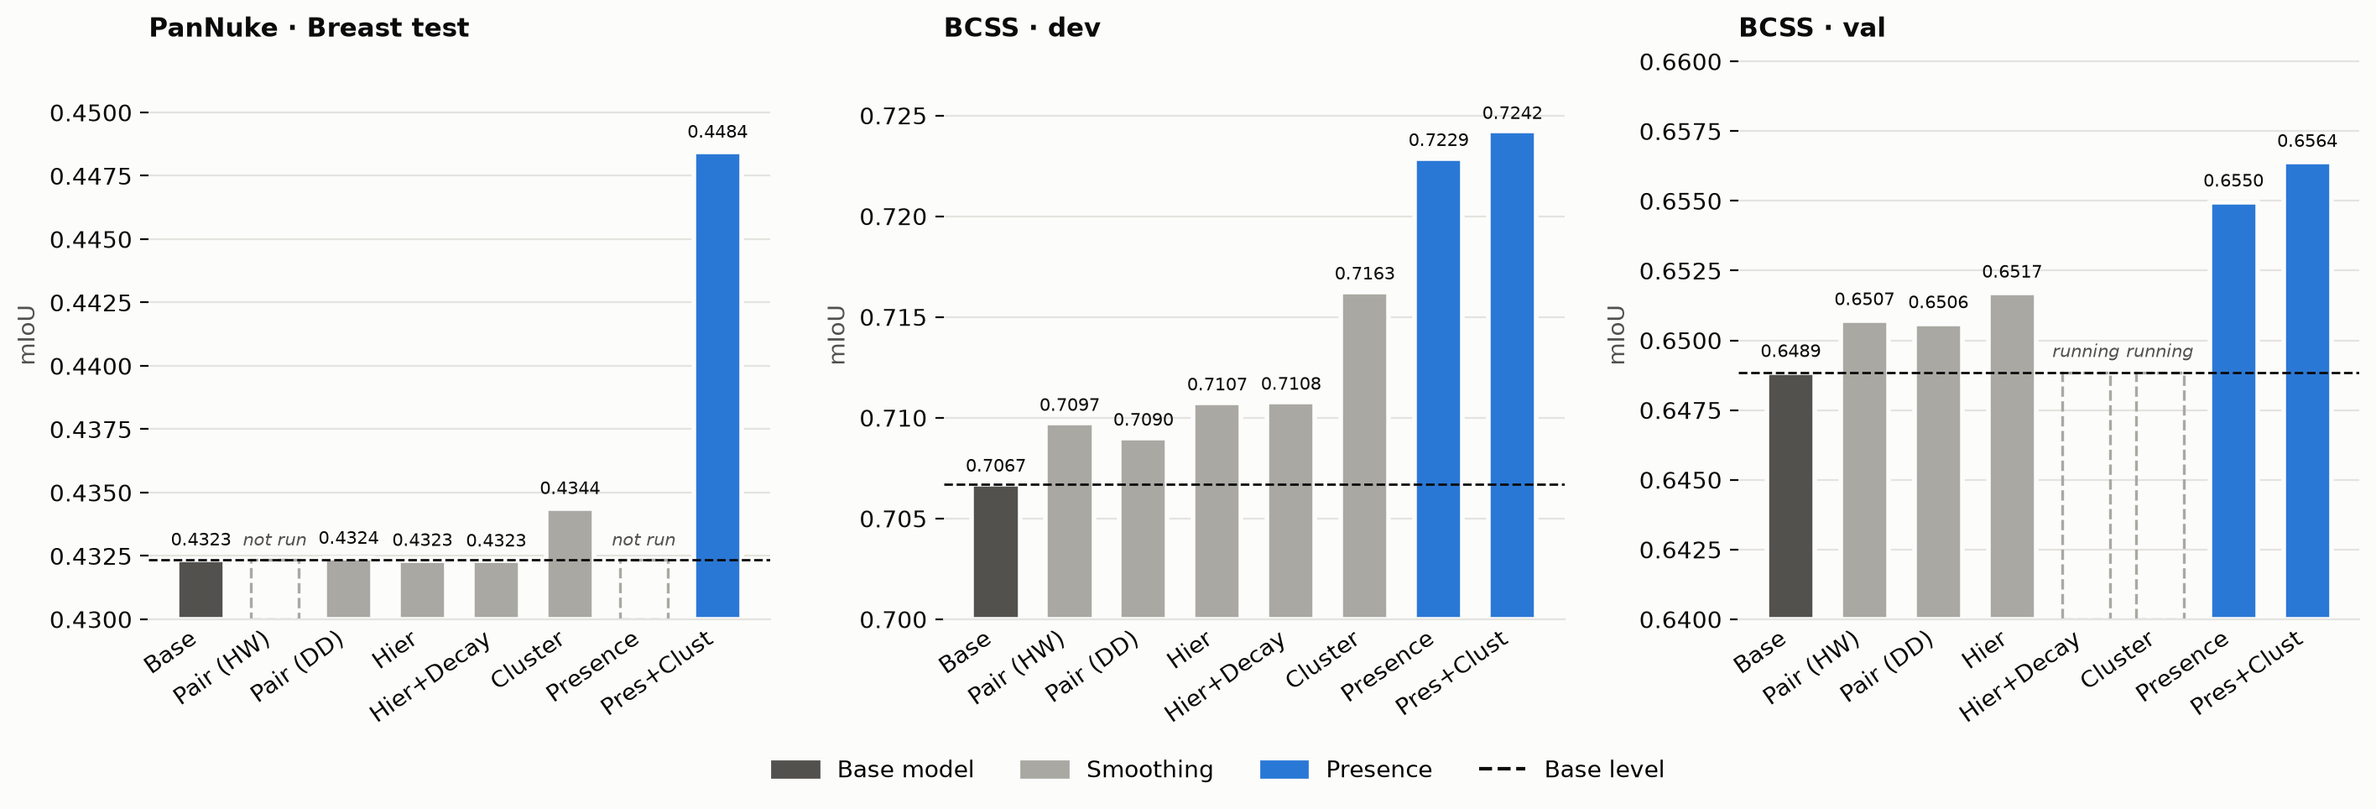
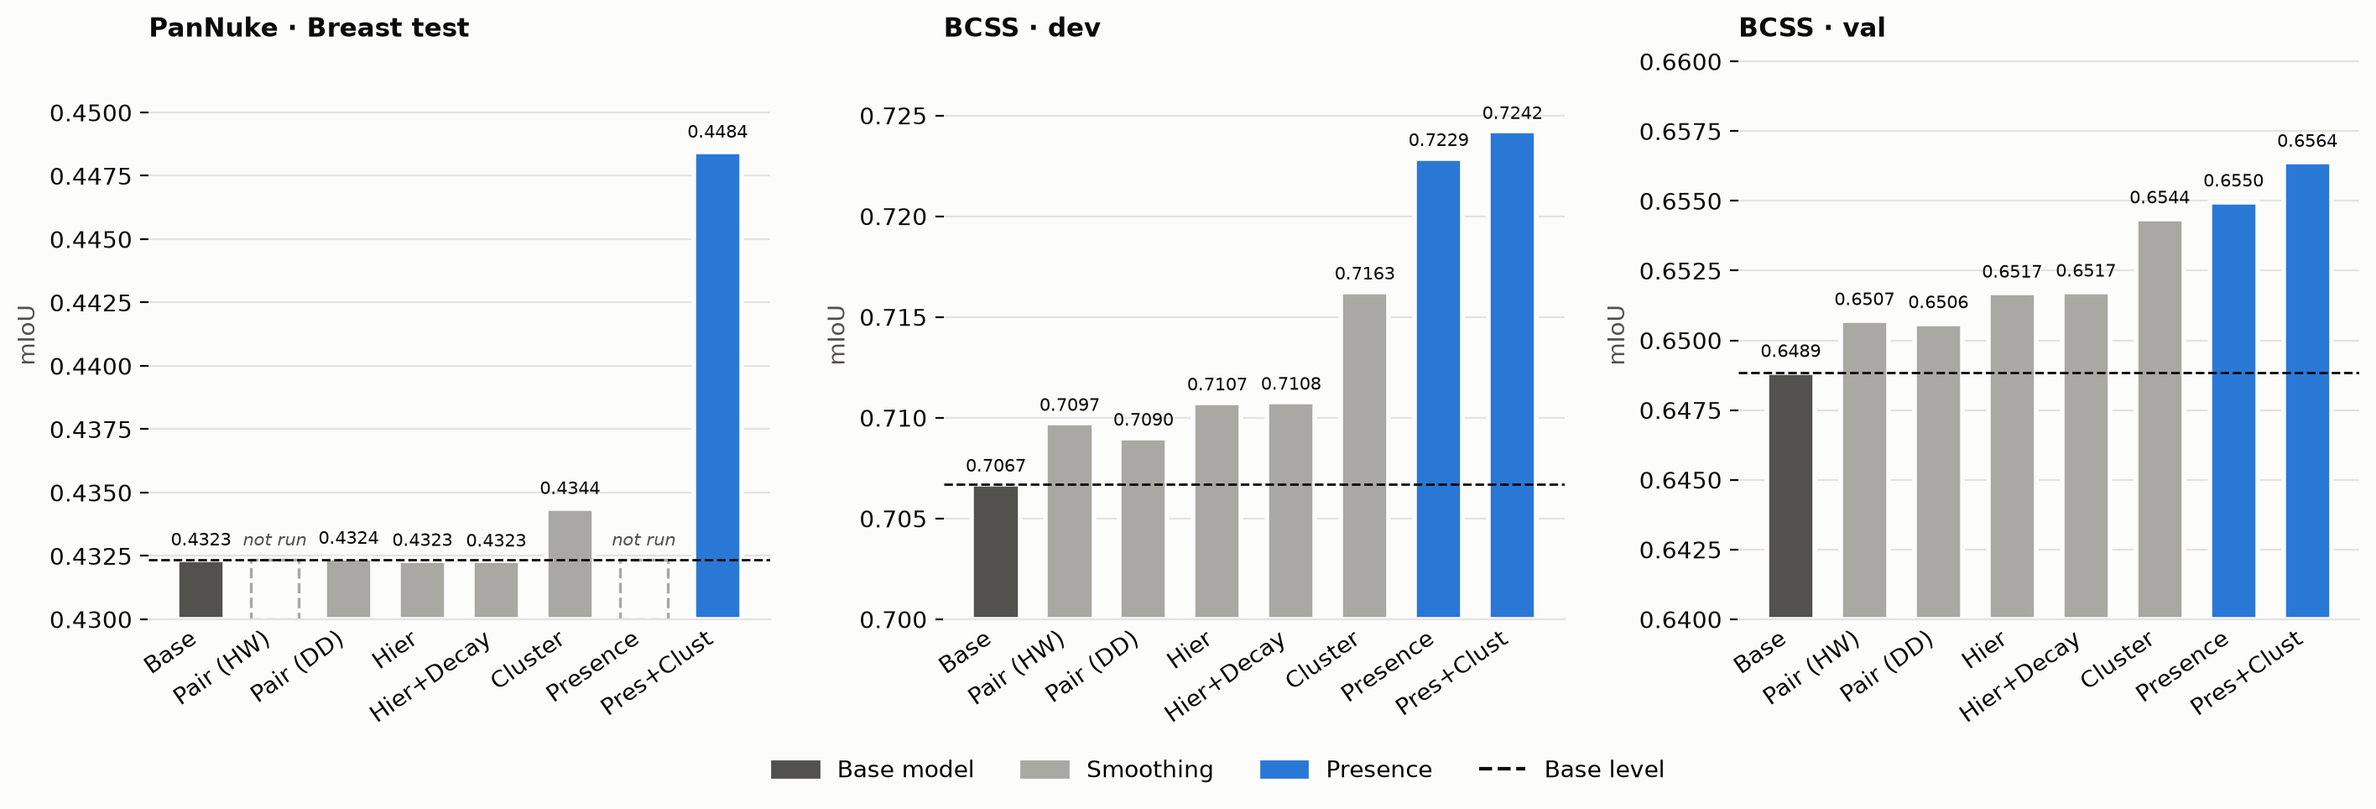
Deliverable 7: Preliminary / Further experiments with PanNuke and BCSS subsections; BCSS sweeps, presence+cluster, U-Net training; val decay and cluster results
Claude-Session: https://claude.ai/code/session_01CTh5Qud5ucWXzk6pK8w2Lo

Changed region(s): [[0.8701, 0.2178, 0.9322, 0.778]]

diff --git a/docs/deliverable7/index.html b/docs/deliverable7/index.html
@@ -14,9 +14,10 @@
   h1 { font-size: 34px; margin: 0 0 6px; letter-spacing: -0.01em; }
   .sub { color: var(--muted); margin: 0; }
   h2 { font-size: 22px; margin: 48px 0 12px; padding-top: 8px; }
-  h3 { font-size: 18px; margin: 32px 0 8px; }
+  h3 { font-size: 20px; margin: 36px 0 8px; padding-bottom: 4px; border-bottom: 1px solid var(--line); }
   .wrap { overflow-x: auto; }
   h4 { font-size: 16px; margin: 22px 0 6px; }
+  h5 { font-size: 15px; margin: 18px 0 6px; color: #52514e; }
   ul { margin: 6px 0 10px; padding-left: 22px; }
   p { margin: 10px 0; }
   .note { color: var(--muted); font-size: 14px; }
@@ -41,7 +42,7 @@
 <header>
   <h1>Deliverable 7</h1>
   <p class="sub">November 23, 2026 · PanNuke (cell nuclei) and BCSS (tissue regions)</p>
-  <nav><a href="#recap">Recap</a><a href="#problem">Problems</a><a href="#prelim">PanNuke tests</a><a href="#prelim-bcss">BCSS tests</a><a href="#pannuke-organs">PanNuke per organ</a><a href="#current">BCSS U-Net</a></nav>
+  <nav><a href="#recap">Recap</a><a href="#problem">Problems</a><a href="#prelim">Preliminary experiments</a><a href="#further">Further experiments</a></nav>
 </header>
 
 <section id="recap">
@@ -54,8 +55,8 @@
   <tr><td>Pair (HW)</td><td class="num dash">—</td><td class="num">0.7097 <span class="d">(+0.0030)</span></td><td class="num">0.6507 <span class="d">(+0.0019)</span></td></tr>
   <tr><td>Pair (DD)</td><td class="num">0.4324 <span class="d">(+0.0001)</span></td><td class="num">0.7090 <span class="d">(+0.0023)</span></td><td class="num">0.6506 <span class="d">(+0.0018)</span></td></tr>
   <tr><td>Hier</td><td class="num">0.4323 <span class="d">(0.0000)</span></td><td class="num">0.7107 <span class="d">(+0.0040)</span></td><td class="num">0.6517 <span class="d">(+0.0028)</span></td></tr>
-  <tr><td>Hier+Decay</td><td class="num">0.4323 <span class="d">(0.0000)</span></td><td class="num">0.7108 <span class="d">(+0.0041)</span></td><td class="num dash">running</td></tr>
-  <tr><td>Cluster</td><td class="num">0.4344 <span class="d">(+0.0020)</span></td><td class="num">0.7163 <span class="d">(+0.0095)</span></td><td class="num dash">running</td></tr>
+  <tr><td>Hier+Decay</td><td class="num">0.4323 <span class="d">(0.0000)</span></td><td class="num">0.7108 <span class="d">(+0.0041)</span></td><td class="num">0.6517 <span class="d">(+0.0029)</span></td></tr>
+  <tr><td>Cluster</td><td class="num">0.4344 <span class="d">(+0.0020)</span></td><td class="num">0.7163 <span class="d">(+0.0095)</span></td><td class="num">0.6544 <span class="d">(+0.0055)</span></td></tr>
   <tr class="hl"><td>Presence</td><td class="num dash">—</td><td class="num">0.7229 <span class="d">(+0.0162)</span></td><td class="num">0.6550 <span class="d">(+0.0061)</span></td></tr>
   <tr class="hl"><td>Pres+Clust</td><td class="num">0.4484 <span class="d">(+0.0161)</span></td><td class="num">0.7242 <span class="d">(+0.0175)</span></td><td class="num">0.6564 <span class="d">(+0.0075)</span></td></tr>
 </table>
@@ -89,7 +90,9 @@
 </section>
 
 <section id="prelim">
-<h2>PanNuke preliminary tests</h2>
+<h2>Preliminary experiments</h2>
+
+<h3 id="prelim-pannuke">PanNuke</h3>
 <p class="note">Frozen HoVer-Net · 400 dev patches from PanNuke folds 1 and 3 (all organs except Adrenal) · rules counted on 4,089 separate patches · no training.</p>
 <p>On PanNuke, a <b>segmentation</b> error is an outline mistake: a nucleus that is missed, invented, or drawn too big or too small. A <b>class identification</b> error is a kind mistake: the right nucleus with the wrong cell type.</p>
 <div class="wrap"><table>
@@ -119,12 +122,12 @@
 
 <div class="take"><b>HoVer-Net invents combinations the truth almost never has:</b> neoplastic and normal epithelial together in 22% of patches (truth: under 1%), and rare kind combinations in 33% (truth: 3–5%). Presence brings both back to truth levels. It slightly overshoots on immune cells, removing them from 48% of patches where 56% should have them.</div>
 
-<h3>Breast examples</h3>
+<h4>Breast examples</h4>
 <img src="pannuke_breast_examples.png" alt="Four Breast patches: tissue, truth, HoVer-Net, and after presence, with changed nuclei outlined">
 <div class="take"><b>Rows 2–3 show the main fix:</b> HoVer-Net scatters "neoplastic" (red) nuclei through normal breast epithelium (yellow), and presence relabels them. Row 2 also shows one mistake, a real immune cell relabeled. Row 4 is the biggest loss. Of 120 Breast dev patches, 28 improve, 16 get worse and 76 are unchanged.</div>
 <p class="note">Sources: <code>experiments/pannuke_wcsp/prelim_20261123/</code> (<code>analyze.py</code>, <code>results.json</code>). The rows were chosen by a fixed rule: the 3 largest and 1 smallest per-patch change.</p>
 
-<h3>Breast patch comparisons, every method side by side</h3>
+<h4>Breast patch comparisons, every method side by side</h4>
 <p class="note">Breast fold 2 test patches · same frozen HoVer-Net, nucleus outlines fixed. These panels use their own colors: <b>purple = normal epithelial, green = inflammatory, blue = connective</b>. Gold in the last panel marks labels that changed vs. the previous Breast WCSP, not dead cells. Per-patch mIoU averages all five kinds, so kinds absent from a patch score 0 and pull it down.</p>
 <p>Each panel runs left to right: tissue → truth → raw HoVer-Net → previous global WCSP → previous Breast WCSP → larger sweep → BCSS-style presence (only allowed classes) → what changed.</p>
 
@@ -138,38 +141,39 @@
 <div class="take"><b>Regression (patch 72):</b> the stronger sweep correctly fixes two false "neoplastic" nuclei, but also turns the one real neoplastic nucleus (large, right) into connective. With no cancer left in the patch, the whole neoplastic class scores 0, and mIoU drops from 0.405 to 0.301. Stronger presence settings fix more false cancer nuclei but occasionally remove a real one.</div>
 <p class="note">Selected illustrations from 78 patches, including failures, not a representative sample. Full Breast fold-2 cohort (exploratory): previous Breast WCSP 0.4484, larger sweep 0.4479, BCSS-style presence 0.4519. Source: <code>experiments/pannuke_wcsp/bcss_cohesion_20261123/patch_comparisons/</code>.</p>
 
-</section>
 
-<section id="prelim-bcss">
-<h2>BCSS preliminary tests</h2>
+<h3 id="prelim-bcss">BCSS</h3>
 <div class="take"><b>Goal:</b> find out whether <b>segmentation</b> or <b>class identification</b> is the bigger problem for the U-Net, so we know what to fix first.</div>
 <p class="note">Full-resolution U-Net · 185 BCSS dev tiles · no training</p>
 
-<h3>The two errors</h3>
+<h4>The two errors</h4>
 <ul>
   <li><b>Segmentation error:</b> the U-Net knows what a region is, but gets its shape wrong: pieces break off, borders are off.</li>
   <li><b>Class identification error:</b> the U-Net gets the shape roughly right, but calls the region the wrong tissue.</li>
 </ul>
 
-<h3>Method</h3>
+<h4>Method</h4>
 <p>Take each true region (one connected piece of one class in the ground truth) and check the U-Net's most common label inside it. <b>Right</b> → its wrong pixels are segmentation errors. <b>Wrong</b> → they are class identification errors.</p>
 <img src="prelim_split_diagram.png" alt="Diagram: a mostly-right region gives segmentation errors; a mostly-wrong region gives class identification errors">
 
-<h3>Test 1 · How much of each class is wrong, and why?</h3>
+<h4>Test 1 · How much of each class is wrong, and why?</h4>
 <img src="prelim_error_split.png" alt="Test 1: percent of each class wrong, split into segmentation and class identification errors, with the average">
 <div class="take"><b>Class identification is slightly bigger on average</b> (12.2% vs 9.4% of a class's pixels). It dominates for "other" and stroma, while segmentation dominates for inflammatory, necrosis and tumor.</div>
 
-<h3>Test 2 · What would fixing each one be worth?</h3>
+<h4>Test 2 · What would fixing each one be worth?</h4>
 <ul>
   <li><b>Perfect class identification:</b> keep the U-Net's regions; give each the class most of its true pixels have.</li>
   <li><b>Perfect segmentation:</b> keep the true regions; give each the class the U-Net predicts for most of it.</li>
 </ul>
 <img src="prelim_ladder.png" alt="Test 2: today's methods vs. each problem made perfect">
 <div class="take"><b>Both matter about equally:</b> perfect class identification +0.1186, perfect segmentation +0.1028. Presence (+0.0086) and smoothing (+0.0023) recover only a small fraction.</div>
+
 </section>
 
-<section id="pannuke-organs">
-<h2>Current experiments · PanNuke: per organ, and a wider presence sweep</h2>
+<section id="further">
+<h2>Further experiments</h2>
+
+<h3 id="further-pannuke">PanNuke</h3>
 <p>Every PanNuke WCSP family was refit and retuned on one organ at a time, then scored once on that organ's held-out test patches. Gain = type set (PanNuke's presence rule) minus fixed-mask voting.</p>
 
 <div class="wrap"><table>
@@ -183,12 +187,12 @@
 
 <div class="take"><b>Per-organ tuning only paid off on Breast.</b> On Colon and Adrenal, the settings picked on dev didn't hold up on test. The original all-organ presence setting, unchanged, still helped Adrenal (+0.0049 [+0.0016, +0.0089]).</div>
 
-<h3>Breast: one tissue type vs. all tissue types</h3>
+<h4>Breast: one tissue type vs. all tissue types</h4>
 <p>Same 169 Breast test patches, presence fit and tuned on Breast only vs. on all tissue types.</p>
 <img src="pannuke_tissue_type.png" alt="PanNuke: Breast-specific fitting vs. global fitting">
 <div class="take"><b>Breast-only fitting wins:</b> 0.4384 (all tissue types) → 0.4484 (Breast only).</div>
 
-<h3>Wider sweep, like BCSS's presence sweep</h3>
+<h4>Wider sweep, like BCSS's presence sweep</h4>
 <p>1,584 settings of the presence rule: strength up to 32 (previously 4), count per organ or all organs, finer groups by nucleus count, and smoothing. Settings were picked on 400 patches and scored once on <b>600 fresh patches</b> from PanNuke folds 1 and 3 (all organs except Adrenal).</p>
 
 <div class="wrap"><table>
@@ -203,18 +207,46 @@
 
 <div class="take"><b>Stronger presence helps:</b> the swept setting triples the original gain over voting (Holm p = 0.034). Its edge over the original setting (+0.0081 [−0.0016, +0.0178]) isn't significant yet. Almost all of it comes from Breast (+0.0125) and Colon (+0.0283, wide interval). The 16 smaller organs see no gain. Counting from 20× more patches with the original setting changed nothing (+0.0003).</div>
 <p class="note">Sources: <code>experiments/pannuke_wcsp/organ_wcsp/README.md</code> (all three organs), <code>organ_wcsp/adrenal_gland/</code>, <code>experiments/pannuke_wcsp/type_set_sweep_20261123/</code>.</p>
-</section>
 
-<section id="current">
-<h2>Current experiments · BCSS: fixing the U-Net itself</h2>
-<p>Same training recipe as the cross-entropy baseline; only the loss changes. Score = raw U-Net, no post-processing.</p>
-<table>
-  <tr><th>Model</th><th>Added loss</th><th>Fixes</th><th class="num">Dev mIoU</th></tr>
-  <tr><td>A (baseline)</td><td>none</td><td class="dash">—</td><td class="num">0.6679</td></tr>
-  <tr><td>B</td><td>Region loss: pixels in the same true region should agree</td><td>Segmentation</td><td class="num dash">—</td></tr>
-  <tr><td>C</td><td>Presence loss: predict which classes are in the tile</td><td>Class identification</td><td class="num dash">—</td></tr>
-</table>
+<h3 id="further-bcss">BCSS</h3>
+<h4>1 · Hyperparameter sweeps</h4>
+<p class="note">WCSP settings tuned on 185 BCSS dev tiles; the best of each is used everywhere else.</p>
+<div class="wrap"><table>
+  <tr><th>Setting</th><th>Values tried</th><th>Best</th><th class="num">Dev mIoU</th></tr>
+  <tr><td>Pair table strength λ (HW / DD)</td><td>0.5 – 32</td><td>8</td><td class="num">0.7097 / 0.7090</td></tr>
+  <tr><td>Multi-scale parent–child weight μ</td><td>0 – 1</td><td>0.5</td><td class="num">0.7108</td></tr>
+  <tr><td>Number of block levels</td><td>1 – 5</td><td>3</td><td class="num">0.7101 <span class="d">(μ = 0.2)</span></td></tr>
+  <tr><td>Decay schedules</td><td>23 (blocks, all levels, pixels, Potts, uniform, coarse boost)</td><td>coarse boost</td><td class="num">0.7108</td></tr>
+  <tr><td>Presence strength γ</td><td>10 – 100,000</td><td>3,000</td><td class="num"><b>0.7229</b></td></tr>
+  <tr><td>SLIC superpixels</td><td>64 / 256 / 1,024 · colour / probabilities / both · ± pixel refine</td><td>256, both, refine</td><td class="num">0.7163</td></tr>
+</table></div>
+<div class="take"><b>Only presence strength moves the result.</b> Every smoothing setting stays within 0.002 of the others.</div>
+
+<h4>2 · Adding presence and clusters to WCSP</h4>
+<ul>
+  <li><b>Presence:</b> before labeling, decide which classes the tile may contain. Each possible class set is scored by the U-Net's evidence plus how rare that combination is in the training ground truth; classes outside the best set are removed, then WCSP runs.</li>
+  <li><b>Cluster (SLIC superpixels):</b> SLIC splits the tile into about 256 patches of similar colour and U-Net prediction. Each patch is one WCSP variable with one label, so a whole patch flips at once; a final pixel-level pass lets borders move.</li>
+</ul>
+<div class="wrap"><table>
+  <tr><th>Method</th><th class="num">Dev (185)</th><th class="num">Val (2,124, held out)</th><th class="num">Full-res U-Net, dev</th></tr>
+  <tr><td>U-Net</td><td class="num">0.7067</td><td class="num">0.6489</td><td class="num">0.6524</td></tr>
+  <tr><td>Pixel WCSP</td><td class="num">0.7090 <span class="d">(+0.0023)</span></td><td class="num">0.6506 <span class="d">(+0.0018)</span></td><td class="num">0.6547 <span class="d">(+0.0023)</span></td></tr>
+  <tr><td>Cluster WCSP</td><td class="num">0.7163 <span class="d">(+0.0095)</span></td><td class="num">0.6544 <span class="d">(+0.0055)</span></td><td class="num dash">—</td></tr>
+  <tr><td>WCSP + presence</td><td class="num">0.7229 <span class="d">(+0.0162)</span></td><td class="num">0.6550 <span class="d">(+0.0061)</span></td><td class="num">0.6610 <span class="d">(+0.0086)</span></td></tr>
+  <tr class="hl"><td>Cluster WCSP + presence</td><td class="num">0.7242 <span class="d">(+0.0175)</span></td><td class="num">0.6564 <span class="d">(+0.0075)</span></td><td class="num dash">—</td></tr>
+</table></div>
+<div class="take"><b>Presence gives most of the gain and clusters add a little more</b>, on dev, on held-out val, and on the stronger full-resolution U-Net. But even the best (+0.0075 on val) is far below what fixing the U-Net's own errors is worth (about +0.1, preliminary Test 2).</div>
+
+<h4>3 · Fixing the U-Net itself</h4>
+<p>WCSP can only correct the U-Net's output afterwards. Since the U-Net's own segmentation and class identification errors are worth about +0.1 each, we now change <b>how the U-Net is trained</b> so it learns to avoid them. Same training recipe for every model; only the loss changes. Score = raw U-Net, no post-processing.</p>
+<div class="wrap"><table>
+  <tr><th>Model</th><th>Added training loss</th><th>Targets</th><th class="num">Pilot (2 epochs)</th><th class="num">Full (10 epochs)</th></tr>
+  <tr><td>A · baseline</td><td>none (pixel cross-entropy only)</td><td class="dash">—</td><td class="num dash">running</td><td class="num">0.6679</td></tr>
+  <tr><td>B</td><td>Region loss: pixels in the same true region should get the same prediction</td><td>Segmentation</td><td class="num dash">running</td><td class="num dash">—</td></tr>
+  <tr><td>C</td><td>Presence loss: predict which classes are in the tile</td><td>Class identification</td><td class="num dash">running</td><td class="num dash">—</td></tr>
+</table></div>
 <div class="take"><b>Success</b> = B or C beats A.</div>
+
 </section>
 
 </main>

diff --git a/deliverables/figures_20261123/make_figures.py b/deliverables/figures_20261123/make_figures.py
@@ -29,8 +29,8 @@ FAMILIES = [  # (short name, PanNuke Breast test, BCSS dev, BCSS val, is presenc
     ("Pair (HW)", None, 0.709734, 0.650712, False),
     ("Pair (DD)", 0.432412, 0.708998, 0.650602, False),
     ("Hier", 0.432328, 0.710750, 0.651698, False),
-    ("Hier+Decay", 0.432305, 0.710783, None, False),
-    ("Cluster", 0.434374, 0.716253, None, False),
+    ("Hier+Decay", 0.432305, 0.710783, 0.651734, False),
+    ("Cluster", 0.434374, 0.716253, 0.654360, False),
     ("Presence", None, 0.722877, 0.654962, True),
     ("Pres+Clust", 0.448441, 0.724218, 0.656387, True),
 ]

diff --git a/deliverables/deliverable_7.md b/deliverables/deliverable_7.md
@@ -16,8 +16,8 @@ mIoU, with the change vs. the base model in brackets. "—" = not run (yet).
 | Pair (HW) | — | 0.7097 (+0.0030) | 0.6507 (+0.0019) |
 | Pair (DD) | 0.4324 (+0.0001) | 0.7090 (+0.0023) | 0.6506 (+0.0018) |
 | Hier | 0.4323 (0.0000) | 0.7107 (+0.0040) | 0.6517 (+0.0028) |
-| Hier+Decay | 0.4323 (0.0000) | 0.7108 (+0.0041) | *running* |
-| Cluster | 0.4344 (+0.0020) | 0.7163 (+0.0095) | *running* |
+| Hier+Decay | 0.4323 (0.0000) | 0.7108 (+0.0041) | 0.6517 (+0.0029) |
+| Cluster | 0.4344 (+0.0020) | 0.7163 (+0.0095) | 0.6544 (+0.0055) |
 | **Presence** | — | **0.7229 (+0.0162)** | **0.6550 (+0.0061)** |
 | **Pres+Clust** | **0.4484 (+0.0161)** | **0.7242 (+0.0175)** | **0.6564 (+0.0075)** |
 
@@ -46,30 +46,36 @@ mIoU, with the change vs. the base model in brackets. "—" = not run (yet).
 
 ---
 
-## BCSS preliminary tests
+## Preliminary experiments
+
+### PanNuke
+
+Same two tests on HoVer-Net: see the [web version](https://urvib3.github.io/csci-401-capstone-histopathology/deliverable7/#prelim-pannuke).
+
+### BCSS
 
 **Goal:** find out whether **segmentation** or **class identification** is the bigger problem for the U-Net, so we know what to fix first.
 
 *Full-resolution U-Net · 185 BCSS dev tiles · no training*
 
-### The two errors
+#### The two errors
 
 - **Segmentation error:** the U-Net knows what a region is, but gets its shape wrong: pieces break off, borders are off.
 - **Class identification error:** the U-Net gets the shape roughly right, but calls the region the wrong tissue.
 
-### Method
+#### Method
 
 Take each true region (one connected piece of one class in the ground truth) and check the U-Net's most common label inside it. **Right** → its wrong pixels are segmentation errors. **Wrong** → they are class identification errors.
 
 ![Method](figures_20261123/prelim_split_diagram.png)
 
-### Test 1 · How much of each class is wrong, and why?
+#### Test 1 · How much of each class is wrong, and why?
 
 ![Test 1](figures_20261123/prelim_error_split.png)
 
 **Class identification is slightly bigger on average** (12.2% vs 9.4% of a class's pixels). It dominates for "other" and stroma, while segmentation dominates for inflammatory, necrosis and tumor.
 
-### Test 2 · What would fixing each one be worth?
+#### Test 2 · What would fixing each one be worth?
 
 - **Perfect class identification:** keep the U-Net's regions; give each the class most of its true pixels have.
 - **Perfect segmentation:** keep the true regions; give each the class the U-Net predicts for most of it.
@@ -80,14 +86,52 @@ Take each true region (one connected piece of one class in the ground truth) and
 
 ---
 
-## Current experiments: fixing the U-Net itself
+## Further experiments
 
-Same training recipe as the cross-entropy baseline; only the loss changes. Score = raw U-Net, no post-processing.
+### PanNuke
 
-| Model | Added loss | Fixes | Dev mIoU |
-|---|---|---|:---:|
-| A (baseline) | none | — | 0.6679 |
-| B | Region loss: pixels in the same true region should agree | Segmentation | — |
-| C | Presence loss: predict which classes are in the tile | Class identification | — |
+Per-organ fitting (Breast, Colon, Adrenal) and a wider presence sweep: see the [web version](https://urvib3.github.io/csci-401-capstone-histopathology/deliverable7/#further-pannuke).
 
-**Success = B or C beats A.**
+### BCSS
+
+#### 1 · Hyperparameter sweeps
+
+*WCSP settings tuned on 185 BCSS dev tiles; the best of each is used everywhere else.*
+
+| Setting | Values tried | Best | Dev mIoU |
+|---|---|---|---:|
+| Pair table strength λ (HW / DD) | 0.5 – 32 | 8 | 0.7097 / 0.7090 |
+| Multi-scale parent–child weight μ | 0 – 1 | 0.5 | 0.7108 |
+| Number of block levels | 1 – 5 | 3 | 0.7101 (μ = 0.2) |
+| Decay schedules | 23 | coarse boost | 0.7108 |
+| Presence strength γ | 10 – 100,000 | 3,000 | **0.7229** |
+| SLIC superpixels | 64 / 256 / 1,024 · colour / probabilities / both · ± pixel refine | 256, both, refine | 0.7163 |
+
+**Only presence strength moves the result.**
+
+#### 2 · Adding presence and clusters to WCSP
+
+- **Presence:** before labeling, decide which classes the tile may contain. Each possible class set is scored by the U-Net's evidence plus how rare that combination is in the training ground truth; classes outside the best set are removed, then WCSP runs.
+- **Cluster (SLIC superpixels):** SLIC splits the tile into about 256 patches of similar colour and U-Net prediction. Each patch is one WCSP variable with one label; a final pixel-level pass lets borders move.
+
+| Method | Dev (185) | Val (2,124, held out) | Full-res U-Net, dev |
+|---|---:|---:|---:|
+| U-Net | 0.7067 | 0.6489 | 0.6524 |
+| Pixel WCSP | 0.7090 (+0.0023) | 0.6506 (+0.0018) | 0.6547 (+0.0023) |
+| Cluster WCSP | 0.7163 (+0.0095) | 0.6544 (+0.0055) | — |
+| WCSP + presence | 0.7229 (+0.0162) | 0.6550 (+0.0061) | 0.6610 (+0.0086) |
+| **Cluster WCSP + presence** | **0.7242 (+0.0175)** | **0.6564 (+0.0075)** | — |
+
+**Presence gives most of the gain and clusters add a little more**, but even the best (+0.0075 on val) is far below what fixing the U-Net's own errors is worth (about +0.1).
+
+#### 3 · Fixing the U-Net itself
+
+WCSP can only correct the U-Net's output afterwards. Since the U-Net's own segmentation and class identification errors are worth about +0.1 each, we now change **how the U-Net is trained**. Same recipe for every model; only the loss changes. Score = raw U-Net.
+
+| Model | Added training loss | Targets | Pilot (2 epochs) | Full (10 epochs) |
+|---|---|---|:---:|:---:|
+| A · baseline | none (pixel cross-entropy only) | — | running | 0.6679 |
+| B | Region loss: pixels in the same true region should get the same prediction | Segmentation | running | — |
+| C | Presence loss: predict which classes are in the tile | Class identification | running | — |
+
+**Success** = B or C beats A.
